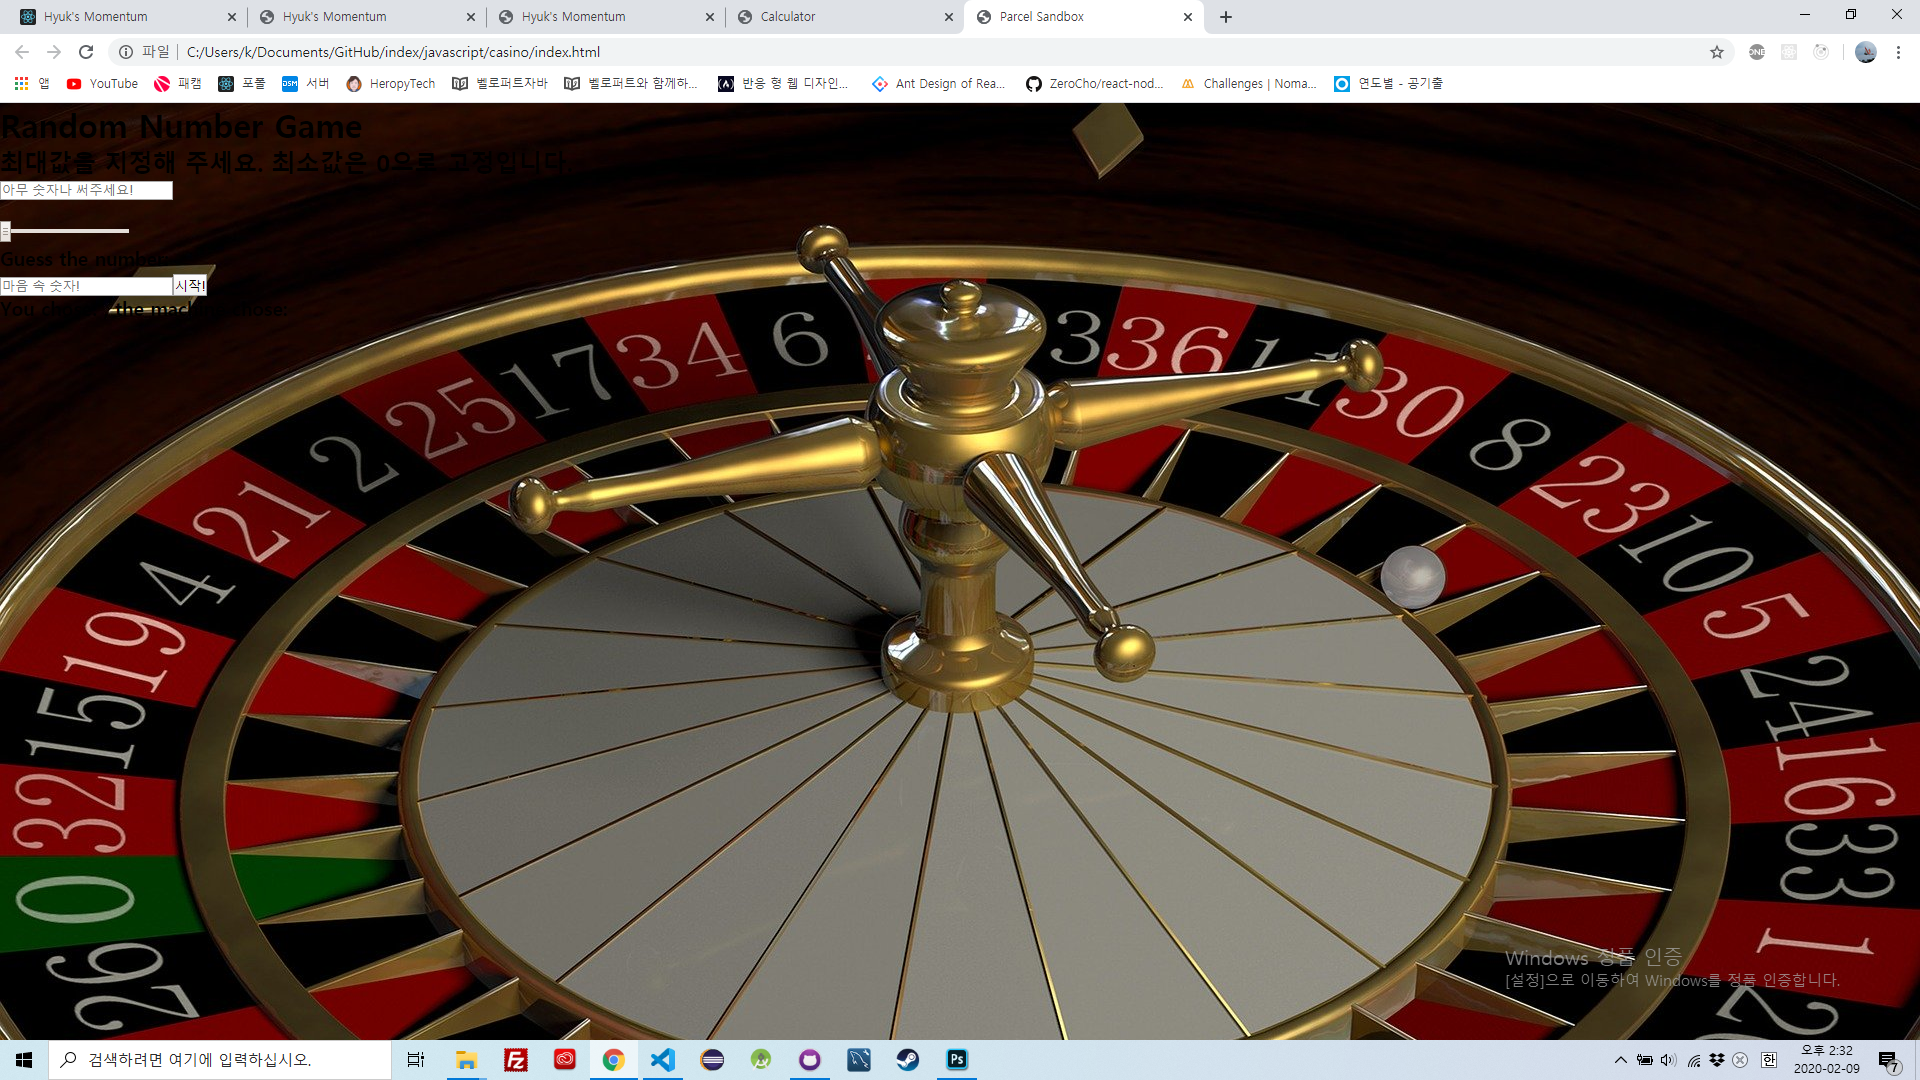
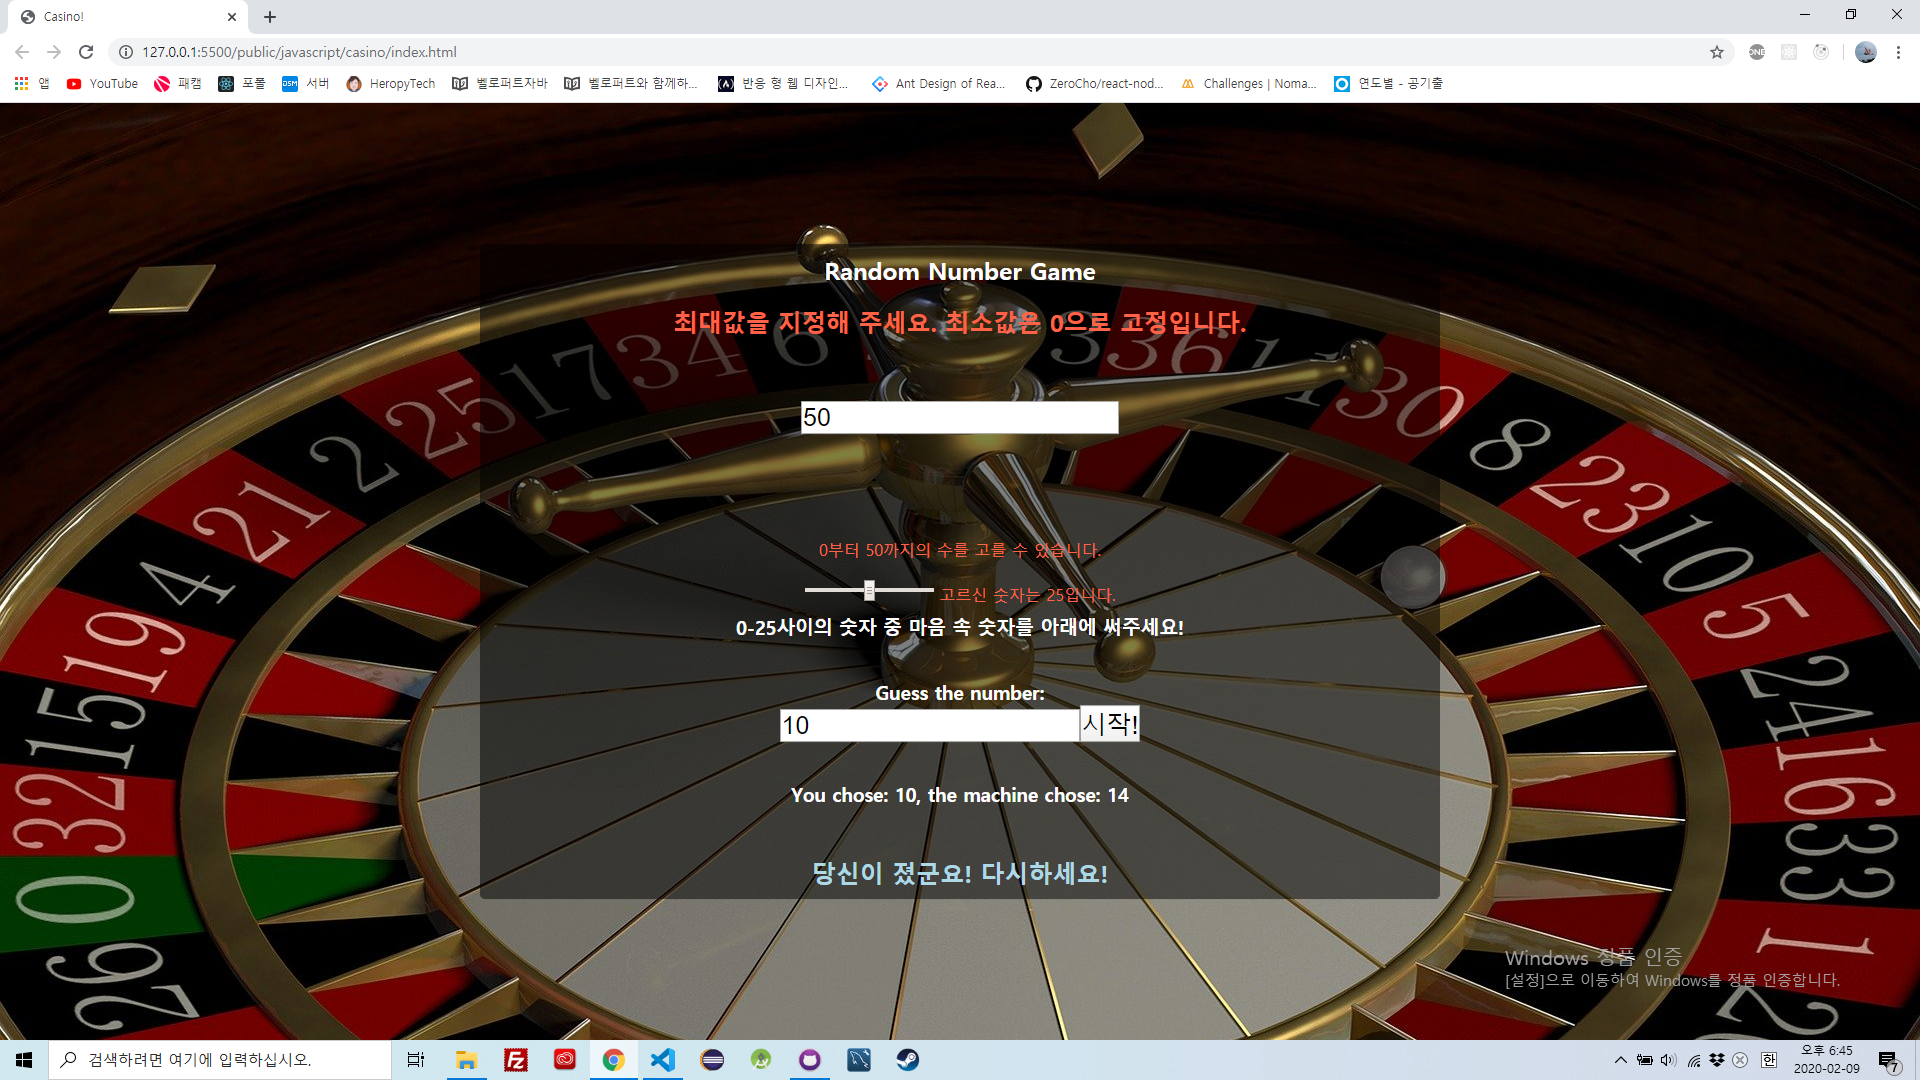
수정

diff --git a/javascript/casino/index.html b/javascript/casino/index.html
@@ -1,46 +1,48 @@
 <!DOCTYPE html>
 <html>
   <head>
-    <title>Parcel Sandbox</title>
+    <title>Casino!</title>
     <link rel="stylesheet" href="src/main.css" />
     <meta charset="UTF-8" />
   </head>
   <body>
-    <h1>Random Number Game</h1>
-    <h2>최대값을 지정해 주세요. 최소값은 0으로 고정입니다.</h2>
-    <input
-      type="number"
-      placeholder="아무 숫자나 써주세요!"
-      name="number"
-      id="number-input"
-    />
-    <br /><br />
-    <div id="subheadline"></div>
-    <div id="contents1">
-      <input type="range" min="0" max="0" id="slider" value="0" />
-      <span id="slider-after"></span>
-    </div>
-    <div id="contents2">
-      <h3>
-        Guess the number:
-        <form>
-          <input
-            type="number"
-            placeholder="마음 속 숫자!"
-            name="numberMind"
-            id="number-mind"
-          /><input type="submit" value="시작!" />
-        </form>
-      </h3>
-    </div>
-    <div id="contents3">
-      <h3>
-        You chose: <span id="chosen-number"></span>, the machine chose:
-        <span id="machine-chosen-number"></span>
-      </h3>
-      <h2 id="result"></h2>
-    </div>
-    <h1 id="contents4"></h1>
-    <script src="index.js"></script>
+    <section>
+      <h1>Random Number Game</h1>
+      <h2>최대값을 지정해 주세요. 최소값은 0으로 고정입니다.</h2>
+      <input
+        type="number"
+        placeholder="아무 숫자나 써주세요!"
+        name="number"
+        id="number-input"
+      />
+      <br /><br />
+      <div id="subheadline"></div>
+      <div id="contents1">
+        <input type="range" min="0" max="0" id="slider" value="0" />
+        <span id="slider-after"></span>
+      </div>
+      <div id="contents2">
+        <h3>
+          Guess the number:
+          <form>
+            <input
+              type="number"
+              placeholder="마음 속 숫자!"
+              name="numberMind"
+              id="number-mind"
+            /><input type="submit" value="시작!" />
+          </form>
+        </h3>
+      </div>
+      <div id="contents3">
+        <h3>
+          You chose: <span id="chosen-number"></span>, the machine chose:
+          <span id="machine-chosen-number"></span>
+        </h3>
+        <h2 id="result"></h2>
+      </div>
+      <h1 id="contents4"></h1>
+    </section>
+    <script src="src/index.js"></script>
   </body>
 </html>

diff --git a/javascript/selectbox/src/index.js b/javascript/selectbox/src/index.js
@@ -1,14 +1,29 @@
-// <⚠ DONT DELETE THIS ⚠>
-import "./styles.css";
-// <⚠ /DONT DELETE THIS ⚠>
 
 const country = document.querySelector("select");
 const countryOpt = document.querySelectorAll("option");
+const body = document.querySelector('body')
 
 const SELECTED_COUNTRY = "selectedCountry";
 
 const getCountry = () => localStorage.getItem(SELECTED_COUNTRY);
-
+const getBackground = () => {
+  switch (getCountry()) {
+    case 'Korea':
+      body.style.backgroundImage = `url("src/korea.jpg")`
+      break;
+    case 'Greece':
+      body.style.backgroundImage = `url("src/greece.jpg")`
+      break;
+    case 'Turkey':
+      body.style.backgroundImage = `url("src/turkey.jpg")`
+      break;
+    case 'Finland':
+      body.style.backgroundImage = `url("src/finland.jpg")`
+      break;
+    default: body.style.backgroundImage = 'deeppink'
+      break;
+  }
+}
 const setCountry = selCountry => {
   localStorage.setItem(SELECTED_COUNTRY, selCountry);
 };
@@ -18,6 +33,7 @@ const loadCountry = () => {
     for (let i = 0; i < countryOpt.length; i++) {
       if (getCountry() === countryOpt[i].value) {
         countryOpt[i].setAttribute("selected", true);
+        getBackground()
       }
     }
   } else {
@@ -29,7 +45,7 @@ window.onload = loadCountry();
 country.addEventListener("change", event => {
   if (event.target.value) {
     setCountry(event.target.value);
-    console.log(getCountry());
+    getBackground()
   } else {
     return;
   }

diff --git a/javascript/casino/src/index.js b/javascript/casino/src/index.js
@@ -14,7 +14,7 @@ contents1.style.visibility = 'hidden';
 contents2.style.visibility = 'hidden';
 contents3.style.visibility = 'hidden';
 
-firstNumberInput.addEventListener('change', function(e) {
+firstNumberInput.addEventListener('change', function (e) {
   e.preventDefault();
   document.getElementById(
     'subheadline'
@@ -24,7 +24,7 @@ firstNumberInput.addEventListener('change', function(e) {
   secondNumberInput.setAttribute('max', e.target.value);
 });
 
-secondNumberInput.addEventListener('change', function(e) {
+secondNumberInput.addEventListener('change', function (e) {
   e.preventDefault();
   secondNumberInputAfterSpan.innerText = `고르신 숫자는 ${e.target.value}입니다.`;
   contents1.appendChild(h3part);
@@ -35,7 +35,7 @@ secondNumberInput.addEventListener('change', function(e) {
   thirdNumberInput.setAttribute('max', e.target.value);
 });
 
-form.addEventListener('submit', function(e) {
+form.addEventListener('submit', function (e) {
   e.preventDefault();
   contents3.style.visibility = 'visible';
   const mathNumber = parseInt(secondNumberInput.value) + 1;
@@ -52,6 +52,6 @@ form.addEventListener('submit', function(e) {
     document.getElementById(
       'contents4'
     ).innerText = `당신이 졌군요! 다시하세요!`;
-    document.getElementById('contents4').style.color = 'black';
+    document.getElementById('contents4').style.color = 'lightblue';
   }
 });

diff --git a/javascript/selectbox/index.html b/javascript/selectbox/index.html
@@ -1,18 +1,21 @@
 <!DOCTYPE html>
 <html>
   <head>
-    <title>Parcel Sandbox</title>
+    <title>Where are you from?</title>
     <meta charset="UTF-8" />
+    <link rel="stylesheet" href="src/styles.css" />
   </head>
   <body>
-    <h1>Where are you from?</h1>
-    <select>
-      <option value="">--- Choose Your Country ---</option>
-      <option value="Korea">Korea</option>
-      <option value="Greece">Greece</option>
-      <option value="Turkey">Turkey</option>
-      <option value="Finland">Finland</option>
-    </select>
+    <section>
+      <h1>Where are you from?</h1>
+      <select>
+        <option value="">--- Choose Your Country ---</option>
+        <option value="Korea">Korea</option>
+        <option value="Greece">Greece</option>
+        <option value="Turkey">Turkey</option>
+        <option value="Finland">Finland</option>
+      </select>
+    </section>
     <script src="src/index.js"></script>
   </body>
 </html>

diff --git a/javascript/casino/src/main.css b/javascript/casino/src/main.css
@@ -4,5 +4,42 @@
   box-sizing: border-box;
 }
 body {
-  background: url("1.jpg");
+  background: url('1.jpg');
+  position: relative;
+  width: 100%;
+  height: 100vh;
+}
+
+section {
+  position: absolute;
+  top: 50%;
+  left: 50%;
+  transform: translate(-50%, -50%);
+  width: 50%;
+  height: 70%;
+  background: rgba(0, 0, 0, 0.5);
+  border-radius: 5px;
+  text-align: center;
+  display: flex;
+  flex-direction: column;
+  justify-content: center;
+  color: tomato;
+  margin: auto;
+}
+h1,
+h2,
+h3,
+div {
+  padding: 10px;
+}
+
+h1,
+h3,
+#contents2 {
+  color: white;
+}
+input {
+  font-size: 25px;
+  margin: auto;
+  max-width: 50%;
 }

diff --git a/javascript/selectbox/src/styles.css b/javascript/selectbox/src/styles.css
@@ -1,3 +1,38 @@
+* {
+  padding: 0;
+  margin: 0;
+}
 body {
   font-family: sans-serif;
+  width: 100%;
+  height: 100vh;
+
+  background-size: cover;
+}
+
+h1 {
+  font-size: 60px;
+  text-align: center;
+  padding-bottom: 70px;
+  color: white;
+}
+
+select {
+  text-align: center;
+  margin: 0 auto;
+  font-size: 20px;
+  background: white;
+  border: 2px solid peru;
+  border-radius: 10px;
+  box-shadow: 1px 1px 3px black;
+}
+
+section {
+  display: flex;
+  flex-direction: column;
+  justify-content: center;
+  width: 100%;
+  height: 100%;
+  margin: auto;
+  background: rgba(0, 0, 0, 0.5);
 }

diff --git a/javascript/christmas/index.html b/javascript/christmas/index.html
@@ -3,7 +3,7 @@
   <head>
     <meta charset="UTF-8" />
     <meta name="viewport" content="width=device-width, initial-scale=1.0" />
-    <title>Document</title>
+    <title>Christmas?</title>
     <link rel="stylesheet" href="src/styles.css" />
   </head>
   <body>

diff --git a/javascript/todolist/index.html b/javascript/todolist/index.html
@@ -1,7 +1,7 @@
 <!DOCTYPE html>
 <html>
   <head>
-    <title>Parcel Sandbox</title>
+    <title>Todo-list</title>
     <meta charset="UTF-8" />
   </head>
 
